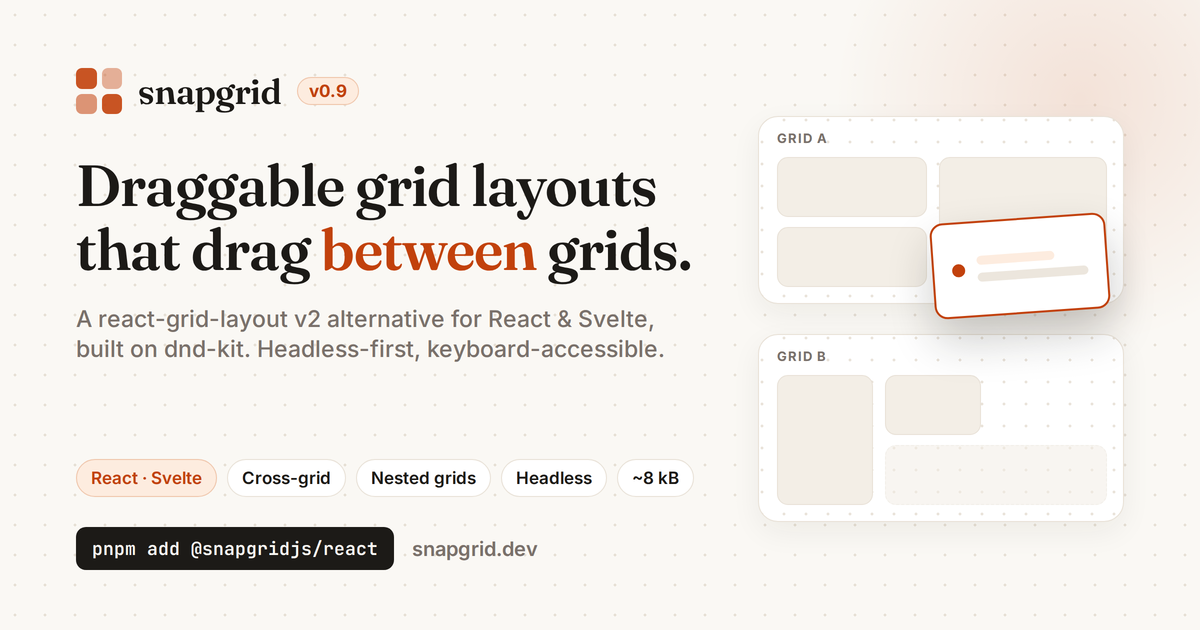
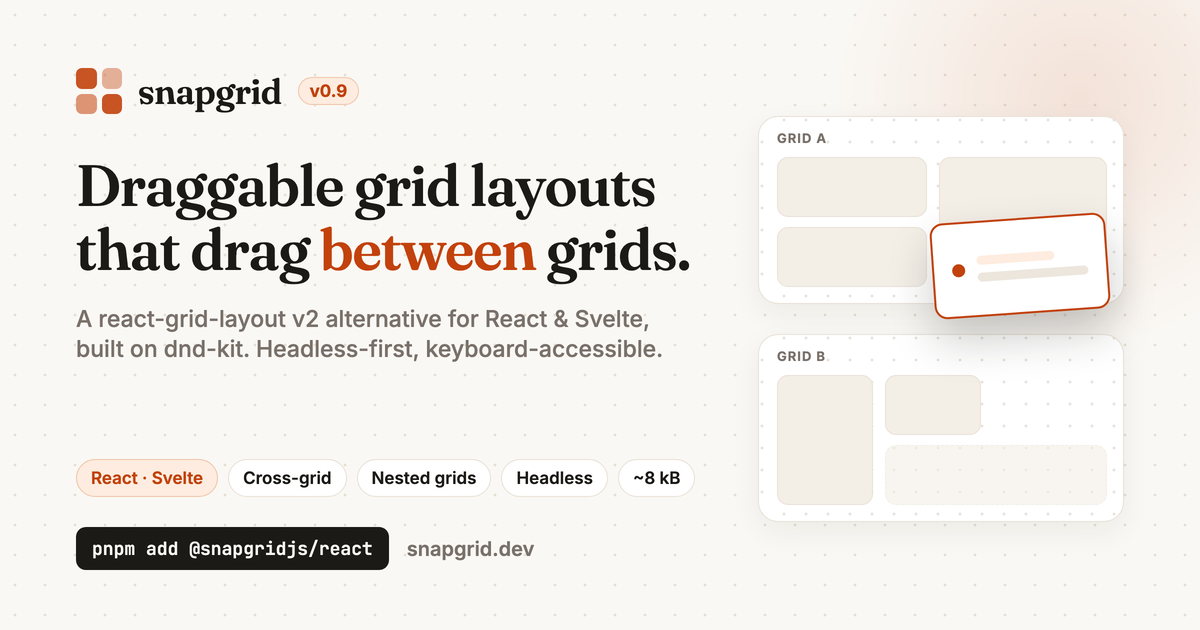
docs: add 0.9.1 changelog entry and refresh release cards
Curated root changelog for the drag-scroll-tracking fix (#49), mirrored to the docs changelog page, with version + OG/social cards regenerated for 0.9.1.

diff --git a/CHANGELOG.md b/CHANGELOG.md
@@ -4,6 +4,20 @@ All notable changes to this project are documented here. The format is based on
 [Keep a Changelog](https://keepachangelog.com/en/1.1.0/), and the project aims to follow
 [Semantic Versioning](https://semver.org/spec/v2.0.0.html) from 1.0 onward.
 
+## [0.9.1] - 2026-07-24
+
+A drag keeps tracking the pointer when the page scrolls mid-drag — including dnd-kit's auto-scroll
+near a viewport edge — so a tile can reach and drop at the rows the scroll reveals.
+
+### Fixed
+
+- **Drag position under page scroll.** An in-grid drag (and resize) derived its target cell from the
+  pointer against the grid's position captured at drag start, so once the page scrolled the target
+  stopped following and a tile couldn't reach or drop at the bottom (`@snapgridjs/dnd`). The engine now
+  re-anchors to the grid's live position each frame and recomputes on scroll — dnd-kit emits no
+  drag-move event while scrolling — matching the cross-grid receive path, which already read a live
+  rect. Reported in [#49](https://github.com/eleung/snapgrid/issues/49).
+
 ## [0.9.0] - 2026-07-20
 
 Svelte support. `@snapgridjs/svelte` brings the same headless-first, dnd-kit-native grid to Svelte 5,
@@ -209,6 +223,7 @@ Initial public release.
 - Documentation site (`apps/docs`) with guides, API reference, and live examples — including a
   nested-grids guide and a real-world showcase dashboard.
 
+[0.9.1]: https://github.com/eleung/snapgrid/releases/tag/%40snapgridjs/react%400.9.1
 [0.9.0]: https://github.com/eleung/snapgrid/releases/tag/%40snapgridjs/react%400.9.0
 [0.8.0]: https://github.com/eleung/snapgrid/releases/tag/%40snapgridjs/react%400.8.0
 [0.7.0]: https://github.com/eleung/snapgrid/releases/tag/%40snapgridjs/react%400.7.0